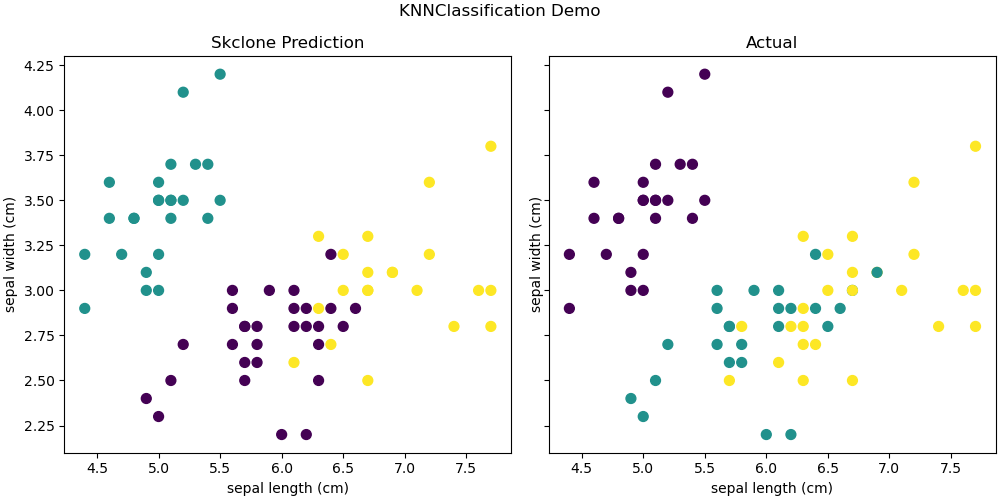
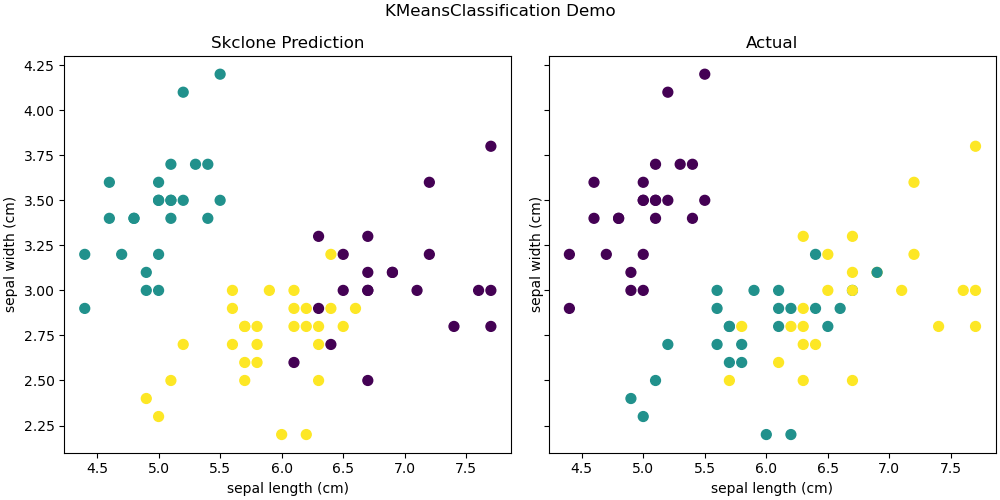
Update README.md

diff --git a/demo/KMeans/KMeansDemo.py b/demo/KMeans/KMeansDemo.py
@@ -34,7 +34,7 @@ for ax in axs.flat:
     ax.set(xlabel=feature[0], ylabel=feature[1])
 
 
-fig.suptitle("KNNClassification Demo")
+fig.suptitle("KMeansClassification Demo")
 plt.savefig("KMeans.png")
 plt.show()
 

diff --git a/README.md b/README.md
@@ -6,9 +6,10 @@ SkClone is a project to build a machine learning library that is able to solve M
 ### What I've implemented so far:
 1) **Linear Regression:** This implementation utilizes gradient descent(not stochastic)  to locate the minima and updates the weight and bias to fit the line. An example of linear regression using SkClone is plotted below: <img src="https://i.imgur.com/S31lhjp.png"/> 
 2) **K-Nearest-Neighbors Classification:** This implementation simply finds a specified number(denoted by "K") of closest datapoints(Neighbors) and holds a majority vote between them in orders to classify new datapoints. An example of K-Nearest-Neighbors classification using SkClone is plotted below:<img src="https://i.imgur.com/WyBLf8W.png"/>
+3) **K-Means Classification:** This can be used to categorize uncategorized data into a specified number of categories(denoted by "K"). The model crashes at times due to improper intialization of the centroid which will be fixed after the implementation of "**KMean++**". An example of K-Nearest-Neighbors classification using SkClone is plotted below:<img src="https://i.imgur.com/KDqza4d.png"/> 
 ### Next Few Milestones:
 1) Implement the "**K-Means++**" algorithm to properly initialize the centroids in my implementation of the **K-Means** algorithm
-2) Write "**setup.py**" so that people can download the package using pip.
+2) Write "**setup.py**" so that people can download the package using pip. 
 
 
 
